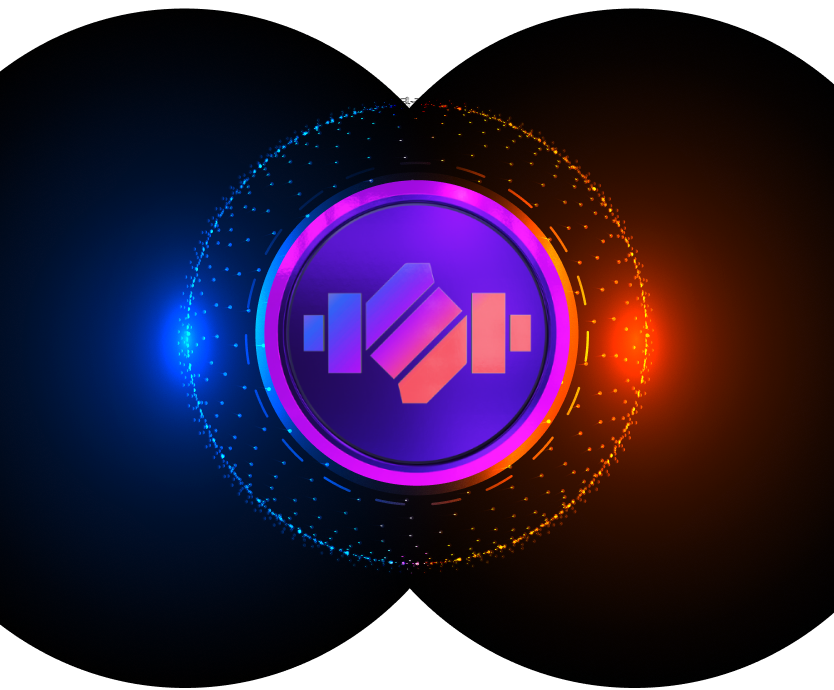
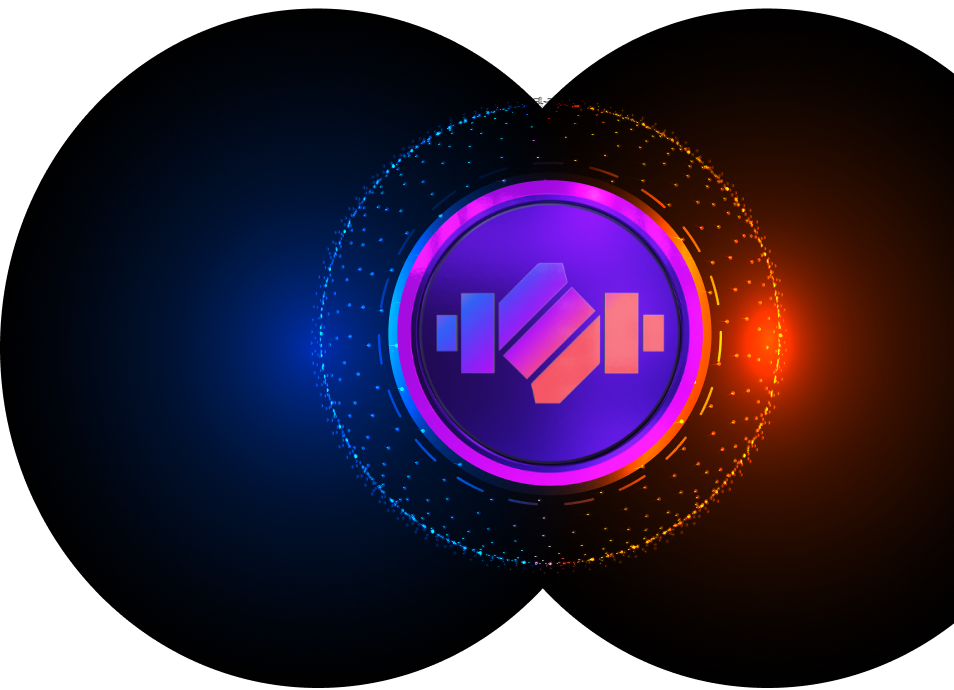
update page

diff --git a/src/components/common/Header.tsx b/src/components/common/Header.tsx
@@ -22,13 +22,15 @@ const Header = () => {
         document.body.classList.remove("overflow-hidden");
       }
     };
+    handleOverflow();
+    window.addEventListener("resize", handleOverflow);
   }, [open]);
 
   return (
-    <div className={`px-4 !mx-auto sm:py-5 py-1 w-full fixed top-0 z-10 transition-all duration-300 bg-black/50`}>
+    <div className="px-4 !mx-auto lg:py-4 sm:py-3 py-[5px] w-full fixed top-0 z-10 transition-all duration-300 bg-black/50">
       <div className="container mx-auto flex items-center justify-between max-w-[1140px] ">
         <a href="/">
-          <img src="/assets/images/png/page-logo.png" alt="page-logo" className="pointer-events-none size-[68px]" />
+          <img src="/assets/images/png/page-logo.png" alt="page-logo" className="pointer-events-none lg:size-[68px] sm:size-[76px] size-[40px]" />
         </a>
         <div className={`flex gap-[55px] max-xl:gap-10 max-lg:fixed max-lg:top-0 max-lg:-right-full max-lg:h-full max-lg:w-full max-lg:justify-center max-lg:items-center transition-all duration-300 max-lg:flex-col max-lg:bg-black max-lg:z-10 ${open ? "max-lg:!right-0" : ""}`}>
           <div className="flex max-lg:flex-col gap-5 items-center">
@@ -36,11 +38,11 @@ const Header = () => {
               <a key={i} onClick={closeHandler} href={item.link} className="text-white !whitespace-nowrap font-normal text-base leading-[19.2px] hover:text-light-pink transition-all duration-300 max-lg:text-xl ">{item.title}</a>
             ))}
           </div>
-          <button onClick={closeHandler} className="text-white hidden max-md:block p-[11px_23px_11px_25px] bg-gradient-to-t to-light-purple via-light-pink from-light-orange text-xl font-extrabold leading-6 tracking-[6%] rounded-lg transition-all duration-300">Mint Now</button>
-          <button onClick={closeHandler} className="text-white max-md:hidden p-[11px_23px_11px_25px] bg-gradient-to-t to-light-purple via-light-pink from-light-orange text-xl font-extrabold leading-6 tracking-[6%] rounded-lg transition-all duration-300"> Mint Now</button>
+          <button onClick={closeHandler} className="text-white hidden max-md:block p-[11px_23px_11px_25px] shadow-[0px_4px_10px_0px_#FF676B,2px_0px_10px_3px_#952FFE] bg-gradient-to-t to-light-purple via-light-pink from-light-orange text-xl font-extrabold leading-6 tracking-[6%] rounded-lg transition-all duration-300">Mint Now</button>
+          <button onClick={closeHandler} className="text-white max-md:hidden p-[11px_23px_11px_25px] shadow-[0px_4px_10px_0px_#FF676B,2px_0px_10px_3px_#952FFE] bg-gradient-to-t to-light-purple via-light-pink from-light-orange text-xl font-extrabold leading-6 tracking-[6%] rounded-lg transition-all duration-300"> Mint Now</button>
         </div>
         <div className="flex items-center justify-center gap-10 lg:hidden">
-          <button className="text-white max-md:hidden lg:hidden p-[11px_23px_11px_25px] bg-gradient-to-t to-light-purple via-light-pink from-light-orange text-xl font-extrabold leading-6 tracking-[6%] rounded-lg transition-all duration-300"> Mint Now</button>
+          <button className="text-white max-md:hidden lg:hidden p-[11px_23px_11px_25px] shadow-[0px_4px_10px_0px_#FF676B,2px_0px_10px_3px_#952FFE] bg-gradient-to-t to-light-purple via-light-pink from-light-orange text-xl font-extrabold leading-6 tracking-[6%] rounded-lg transition-all duration-300"> Mint Now</button>
           <button onClick={handleClick} className="flex flex-col items-center justify-between relative z-20 overflow-hidden sm:h-8 sm:w-[39px] h-[19px] w-5 lg:hidden">
             <span className={`w-full h-[3px] sm:h-[5px] transition-all duration-300 bg-white rounded-lg ${open ? " translate-x-10" : ""}`}></span>
             <span className={`w-full h-[3px] sm:h-[5px] transition-all duration-300 bg-white rounded-lg ${open ? " -translate-x-10" : ""}`}></span>

diff --git a/src/components/Hero.tsx b/src/components/Hero.tsx
@@ -4,17 +4,17 @@ import React from 'react'
 
 const Hero = () => {
     return (
-        <div id='home' className='bg-cover lg:pt-[100px] sm:pt-[179px] pt-[163px] bg-no-repeat bg-center bg-hero-bg-img max-xl:bg-hero-bg-img-xl max-md:bg-hero-bg-img-md relative overflow-hidden'>
+        <div id='home' className='bg-cover lg:pt-[100px] sm:pt-[179px] pt-[163px] bg-no-repeat bg-center xl:bg-hero-bg-img md:bg-hero-bg-img-xl bg-hero-bg-img-md relative overflow-hidden'>
             <Header />
             <Image width={164} height={164} src="/assets/images/webp/hero-side-layer.webp" alt="hero side layer" className="pointer-events-none lg:pt-[52px] w-full h-auto absolute top-0 max-w-[264px] left-[-8%] " />
             <div className="container mx-auto flex flex-col items-center justify-center relative z-[1]">
                 <Image width={404} height={241} src="/assets/images/webp/hero-img.webp" alt="hero" className="pointer-events-none lg:pt-[52px] h-auto w-auto  lg:max-w-[404px] md:max-w-[388px] max-w-[256px]" />
-                <div className="relative">
-                    <h1 className="pt-8 text-8xl font-black text-white tracking-[6px] relative z-10 leading-custom-md max-md:text-[40px] max-md:pt-[108px] ">SMERSE</h1>
+                <div className="relative max-md:pt-[13px]">
+                    <h1 className="pt-8 text-8xl font-black text-white tracking-[6px] relative z-10 leading-custom-md max-md:text-[40px] max-md:pt-[95px] ">SMERSE</h1>
                     <span className="absolute inset-0 text-8xl max-md:text-[40px] leading-custom-md font-black bg-gradient-to-t to-light-purple via-light-pink from-light-orange bg-clip-text text-transparent tracking-[6px] top-[23.5%] -translate-x-0.5 max-md:top-[70%]">SMERSE</span>
                 </div>
                 <h2 className='lg:text-4xl md:text-3xl sm:text-2xl text-xl font-semibold sm:leading-[54px] text-white max-w-[637px] text-center tracking-[6%] md:pt-2.5 pt-7 md:pb-11 pb-[82px] '>FOR A WHEALTHIER LIFESTYLE. ANYTIME, ANYWHERE</h2>
-                <button className="text-white mb-[50px] px-7 py-4 bg-gradient-to-t to-light-purple via-light-pink from-light-orange text-xl font-extrabold leading-6 tracking-[6%] rounded-lg transition-all duration-300 ">Get Started</button>
+                <button className="text-white mb-[50px] sm:px-[34px] sm:py-4 py-3 px-[25px] bg-gradient-to-t to-light-purple via-light-pink from-light-orange sm:text-xl font-extrabold leading-6 tracking-[6%] rounded-lg transition-all duration-300 shadow-[0px_1px_10px_1px_#952FFE,0px_1px_5px_1px_#FF676B]">Get Started</button>
             </div>
             <div className="w-full h-10 bg-gradient-to-t to-light-purple via-light-pink from-light-orange"></div>
             <Image width={164} height={164} src="/assets/images/webp/hero-side-layer.webp" alt="hero side layer" className="pointer-events-none pt-[52px] w-full h-auto absolute bottom-[-3%] max-w-[264px] right-[-7%] " />

diff --git a/src/components/AboutUs.tsx b/src/components/AboutUs.tsx
@@ -3,10 +3,10 @@ import Image from "next/image";
 import { ABOUT_US_LIST } from "@/utils/helper";
 const AboutUs = () => {
     return (
-        <div className="bg-[#0A0A2B] lg:pt-[140px] sm:pt-16 pt-7 pb-16 relative">
+        <div className="bg-[#0A0A2B] lg:pt-[140px] sm:pt-16 pt-7 pb-16 relative overflow-hidden">
             <div className="max-w-[1141px] mx-auto">
-                <div className="flex items-center max-lg:flex-wrap gap-16 max-lg:gap-10 px-4">
-                    <div className="w-6/12 max-lg:w-full">
+                <div className="flex items-center max-lg:flex-wrap gap-16 max-lg:gap-10 ">
+                    <div className="w-6/12 max-lg:w-full max-xl:px-4 z-[1] ">
                         <div className="relative">
                             <div className="relative">
                                 <h1 className="pt-8 xl:text-5xl lg;text-4xl text-3xl font-black text-white tracking-[6px] relative z-[1] max-md:pt-10">About Us</h1>
@@ -22,8 +22,8 @@ const AboutUs = () => {
                             </div>
                         </div>
                     </div>
-                    <div className="w-6/12 max-lg:w-full">
-                        <Image src="/assets/images/webp/about-us-img.webp" width={621} height={478} alt="smerse" className="object-contain" />
+                    <div className="w-6/12 max-lg:w-full relative max-lg:pt-10">
+                        <Image className="object-contain lg:w-[1085px] w-full lg:absolute right-[-7%] top-[-160px] max-lg:-translate-x-9 max-xl:-translate-x-[110px] scale-125 lg:scale-150" src="/assets/images/webp/about-us-img.webp" width={621} height={478} alt="smerse" />
                     </div>
                 </div>
             </div>

diff --git a/src/app/globals.css b/src/app/globals.css
@@ -8,3 +8,6 @@ body {
     font-family: "Lato", serif;
     background: #0a0a2b;
 }
+.button-shadow{
+    box-shadow: 0px 4px 4px 0px #FF676B33 inset;
+}
